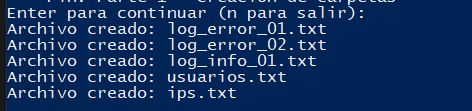
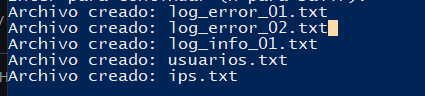
LAB07 DONE: bye vm de windows!

diff --git a/lab07/lab07.md b/lab07/lab07.md
@@ -7,4 +7,35 @@ Asignatura: Sistemas Operativos
 
 Docente: Jorge Martínez
 
-Fecha: 05 de abril de 2026
+Fecha: 7 de abril de 2026
+
+## Parte 1. 
+![alt text](assets/sc01.png)  
+
+## Parte 2. 
+![alt text](assets/sc02.png)
+
+## Parte 3 y 4. 
+![alt text](assets/sc03_4.png)
+
+
+## Parte 5. 
+![alt text](assets/sc05.png)
+
+## Parte 6. 
+![alt text](assets/sc06.png)
+
+
+## Parte 1. 
+![alt text](assets/sc07.png)
+
+
+## Parte 1. 
+![alt text](assets/sc08.png)
+
+
+## Parte 1. 
+![alt text](assets/sc01.png)
+
+## Parte 1. 
+![alt text](assets/sc01.png)